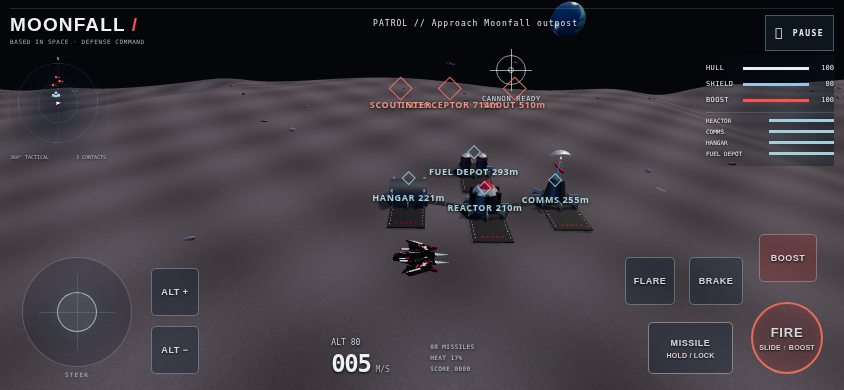
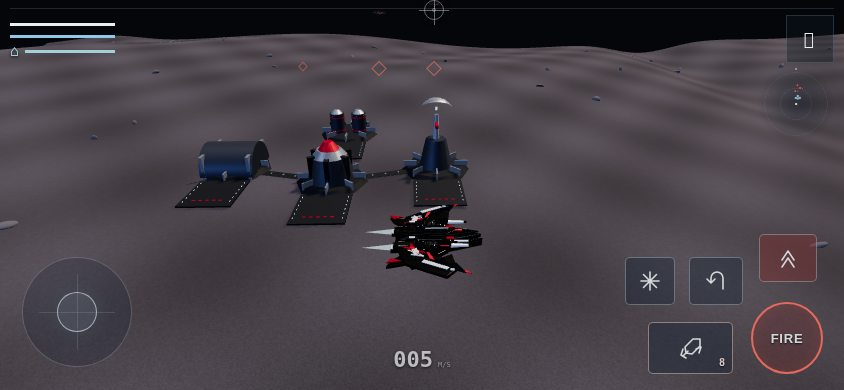
Record deployed control/HUD correction and fresh public Chrome evidence

diff --git a/artifacts/final-evidence.md b/artifacts/final-evidence.md
@@ -5,7 +5,7 @@
 Primary baseline5405a87196ce1387c43c4179e8d42fffebd5a4e3; accepted donor55ec601d9c346a0ac288a338d9692a9a5b58cda0. Source, license and transforms: [provenance](../docs/asset-provenance.md). Baseline could not boot because imports and runtime implementations were missing. One coherent application now replaces that scaffold.
 
 - `npm run check`: syntax and every static import pass.
-- `npm test`:19 deterministic tests pass; movement, altitude, swept cover/collision, homing limits, warnings/decoys, firing sockets, heat, AI turn/LOS, siege, failure and save migration.
+- `npm test`:23 deterministic tests pass (including four camera projection regressions); movement, altitude, swept cover/collision, homing limits, warnings/decoys, firing sockets, heat, AI turn/LOS, siege, failure and save migration.
 - `npm run test:bot`: three normal-input simulations complete the siege and save rewards. No health, position, time or enemy mutation. Completion81.20–81.43simulation seconds,21kills,20–88hull remaining,693–700credits; base modules retain measurable siege damage. [Full results](bot-playtest.json).
 - Production static build:15 runtime files, approximately824KB uncompressed; no install/runtime CDN or paid asset/API dependency. `dist/build-manifest.json` records file hashes and bytes.
 - Real Chromium with mobile emulation, system ffmpeg and one WebGL2 renderer: simultaneous steer/fire/boost, two-pointer FIRE-drag boost, release cleanup, hold-lock-release missile, user-gesture audio unlock, mute, pause/resume, fail/retry, debrief purchase/persistence, portrait auto-pause and landscape return pass.
@@ -14,7 +14,7 @@ Primary baseline5405a87196ce1387c43c4179e8d42fffebd5a4e3; accepted donor55ec601d
 
 The browser checks ran in focused passes: first33.1seconds unpaused keyboard flight; then control/viewport/debrief checks; finally context recovery after repairing the test fixture. The last test issue was requesting the loss extension after the context had already been lost; retaining the extension reference fixed the fixture. An earlier menu state bug was fixed by updating HUD data before rendering the debrief. These are observed checks, not a claim that a human completed the mission on a phone. [Raw browser reports](evidence/browser-reports.json).
 
-## Captures and motion
+## Initial-slice captures and motion
 
 - [Compact phone640×360](evidence/640x360-active-play.jpg)
 - [Phone844×390, active steering and fire](evidence/844x390-active-play.jpg)
@@ -61,3 +61,5 @@ The owner rejected reversed movement, separate altitude buttons, excessive fligh
 The default camera is now42units above/62behind at50°FOV, with optional tactical/chase views. Observed hero horizontal span114–136CSSpx across640×360,844×390 and932×430. Branding, per-installation readouts, role/distance labels and weapon instruction strings are removed from active flight. Compact integrity bars, radar, simple contact markers and icon actions remain. Pause is explicitly anchored upper-right.
 
 `npm test`:23PASS including real Three.js projection tests at four camera headings. Focused Chrome touch tests verify both horizontal directions, altitude increasing/decreasing from the stick, no ALT buttons, two-thumb steering/climbing/firing/boost, pause/resume, no control overlap and fewer than12visible HUD words. Console/page/resource errors zero. [Correction report](controls-review.json). Physical device/performance limitations above still apply.
+
+The corrected build is now production READY at the same URL: deployment dpl_CU7Ds8e7hM33kNx6RyP7JGYkqGri, application commit d200bf8eaeb666a3fc616401d1b1b8839d154391,16runtime files/827772bytes. Fresh public Chrome confirms close camera, screen-right keyboard motion, no ALT buttons, minimal visible HUD and pause in the upper-right, with zero page/console/resource errors. [Current live screenshot](evidence/live-production.jpg) and [current production smoke](evidence/production-smoke.json) supersede the earlier public capture above.

diff --git a/artifacts/game-progress.md b/artifacts/game-progress.md
@@ -24,3 +24,5 @@ Production READY at https://based-in-space-preview.vercel.app/, deployment dpl_B
 ## Owner control/HUD correction
 Owner reported reversed controls, unnecessary altitude buttons, text clutter and distant camera. Root cause: world+X projects screen-left from the north-facing camera. Added camera-basis input mapping (simulation remains world-space). Stick vertical now supplies ascent/descent as well as forward/reverse movement; removed ALT buttons. Default close rig is42up/62behind vs82/115,50°FOV; tactical/chase remain available. Removed branding, per-module/target text and weapon paragraphs from flight view; use bars, contact shapes and action icons. Fixed pause anchoring after removing brand flex item.
 23unit tests pass, including four camera-heading screen projection regressions. Focused actual touch checks pass for left/right/climb/descent and simultaneous steer+climb+fire+boost. Three phone layouts clear; hero spans114–136CSSpx (over2× prior). Report artifacts/controls-review.json. Redeploy this correction under prior production authorization.
+
+Correction deployed and public smoke PASS: dpl_CU7Ds8e7hM33kNx6RyP7JGYkqGri, application d200bf8eaeb666a3fc616401d1b1b8839d154391. Same public URL. Current screenshot/report under artifacts/evidence/live-production.jpg and production-smoke.json. Pause overlap corrected and verified at public URL.

diff --git a/README.md b/README.md
@@ -1,5 +1,7 @@
 # BASED IN SPACE — MOONFALL
 
+[Play the current build](https://based-in-space-preview.vercel.app/)
+
 Work-in-progress lunar defense slice: the owned glossy black/red/white RAZOR, free 3D flight, twin cannons, lock-on missiles, three hostile roles, and a destructible outpost siege. This feature branch replaces an incomplete archived ten-sector scaffold. It is not yet a verified mobile release.
 
 ## Run locally
